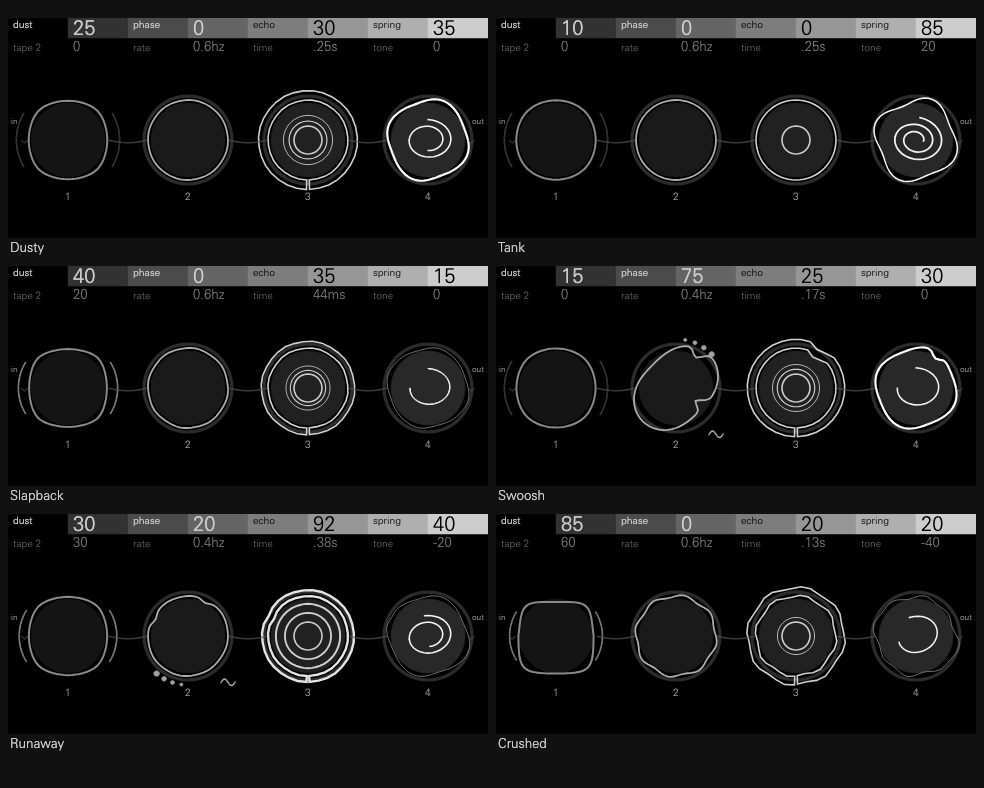
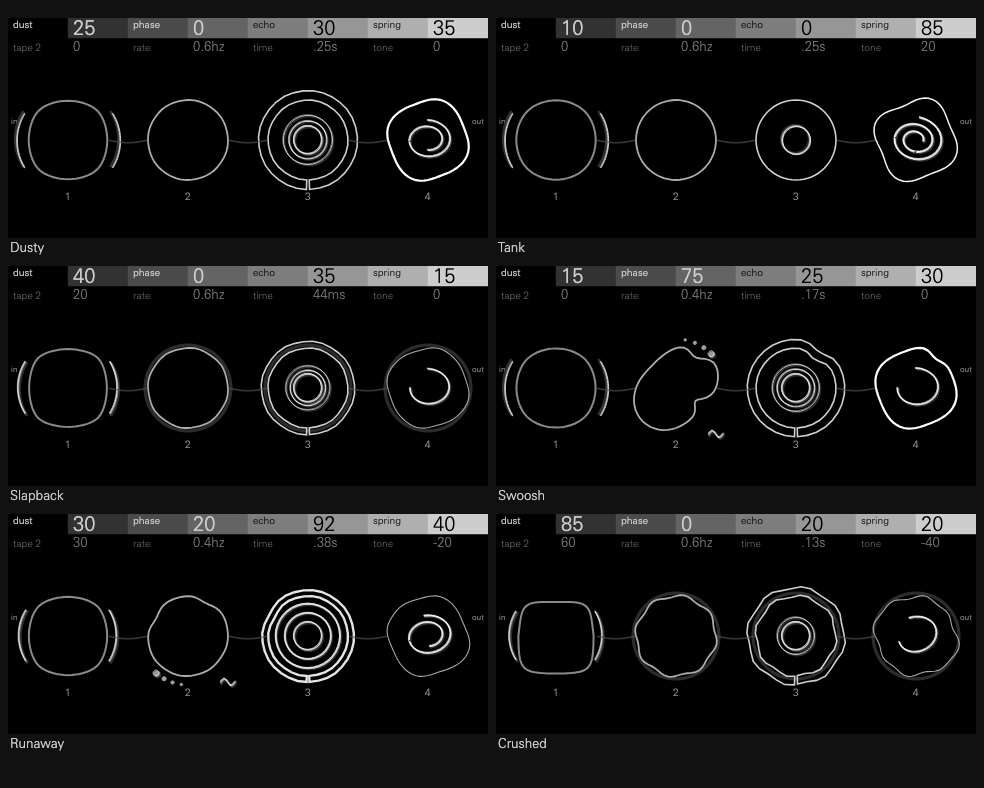
Lint prototype: no grounds behind the scopes; the parts inside are embossed
The static discs are gone: the rims are the picture. The echo's ripples, the
spring's spiral, the lamp's mark, the LFO shapes and tape 2's arcs each get a
shadow below right and a highlight above left (light from the top left), sunk
instead while quiet. Notches and dents are wider and smoother; the halo hugs
the rim and shows only once the grain is rough; LFO 2's inner motion steps at
15 Hz. The legs to IN and OUT are gone.
A design exploration: not for release.

diff --git a/lint/display.cpp b/lint/display.cpp
@@ -62,7 +62,7 @@ i32 bump(i32 a, i32 at, i32 depth) {
     while (d > 1800) d -= 3600;
     while (d < -1800) d += 3600;
     if (d < 0) d = -d;
-    const i32 i = d * 512 / 3600;   // eighths of a 64th of the turn
+    const i32 i = d * 256 / 3600;   // quarters of a point (a 64th of the turn): the table reaches 16 points each side
     return i >= 64 ? 0 : depth * kBump[i] >> 10;
 }
 
@@ -120,6 +120,21 @@ void rim(Frame::path_type& path, const Rim& r, const Live& l, i32 twin) {
     }
 }
 
+// An embossed element: its shadow (the node before it), its body, and its
+// highlight (the node after), sharing one pivot and turn. Light from the top
+// left: raised, the shadow falls down-right; sunk (quiet or off), up-left.
+void trio(Frame& frame, u32 body, i32 x, i32 y, i32 scale, u32 shade, Paint paint, Turn t, bool raised) {
+    const i32 o = raised ? 1024 : -1024, h = raised ? -717 : 717;
+    place(frame, body - 1, x + o, y + o, scale, 0, keep);
+    place(frame, body, x, y, scale, shade, paint);
+    place(frame, body + 1, x + h, y + h, scale, 0, keep);
+    for (u32 k = 0; k < 3; ++k) turn(frame, body - 1 + k, t);
+}
+void hide3(Frame& frame, u32 body) {
+    for (u32 k = 0; k < 3; ++k) hide(frame, body - 1 + k);
+}
+const Turn kStraight = {1024, 0};
+
 u32 checksum(const Frame::path_type& path) {
     u32 sum = 1;
     for (u32 k = 0; k < 64; ++k) sum = sum * 31 + static_cast<u32>(path.points[k].x) * 7 + static_cast<u32>(path.points[k].y);
@@ -139,11 +154,18 @@ void display(DisplayState& state, const Input& input, Frame& frame) {
     const bool fresh = !state.extra[7];
     state.extra[7] = 1;
     const bool lit = n.shift;
+    // LFO 2 as the inner parts follow it: sampled 15 times a second, so the
+    // embossed spiral and ripples redraw in steps, not every frame.
+    {
+        const i32 t15 = (state.clock * 15) >> 10;
+        if (fresh || t15 != state.extra[2]) { state.extra[2] = t15; state.extra[3] = n.lfo2; }
+    }
+    const i32 lfo2_s = state.extra[3];
 
     // Tape 2: two arcs either side of dust's rim close in with its level (at half in the loop with its control down).
     const i32 level = n.loop == kLoopTape && v[kTape2Level] <= 328 ? 16384 : v[kTape2Level];
     for (u32 k = 0; k < 2; ++k)
-        place(frame, kNodeClampL + k, px(kCX[0]), px(kCY), (1024 - share(170, level)) & ~7, level > 328 ? kShadeLit1 : kShadeGuide, stroke);
+        trio(frame, kNodeClampL + 3 * k, px(kCX[0]), px(kCY), (1024 - share(170, level)) & ~7, level > 328 ? kShadeLit1 : kShadeGuide, stroke, kStraight, level > 328);
 
     // Phase: the lamp, lagging the LFO's light, leans its rim and holds its notches.
     const i32 depth = n.patched == kP && v[kPhase] < 328 ? 16384 : v[kPhase];
@@ -156,47 +178,49 @@ void display(DisplayState& state, const Input& input, Frame& frame) {
     const i32 orbit = static_cast<i32>(ph >> 16) * 3600 >> 16;
     const i32 trail = 60 + share(240, v[kRate]);
     for (u32 k = 0; k < 4; ++k) {
-        if (!lamp) { hide(frame, kNodeOrbit0 + k); continue; }
+        if (!lamp) { if (k == 0) hide3(frame, kNodeOrbit0); else hide(frame, kNodeOrbit1 + k - 1); continue; }
         const i32 a = orbit - static_cast<i32>(k) * trail - 900;
-        place(frame, kNodeOrbit0 + k, px(kCX[1]) + (kR0 + 9) * cos10(a), px(kCY) + (kR0 + 9) * sin10(a), unit, kShadeLit2, fill_and_stroke);
+        const i32 x = px(kCX[1]) + (kR0 + 9) * cos10(a), y = px(kCY) + (kR0 + 9) * sin10(a);
+        if (k == 0) trio(frame, kNodeOrbit0, x, y, unit, 0, keep, kStraight, true);
+        else place(frame, kNodeOrbit1 + k - 1, x, y, unit, kShadeLit2, fill_and_stroke);
     }
     for (u32 k = 0; k < 3; ++k) {
-        if ((lamp || lit) && k == n.shape) place(frame, kNodeLfoSine + k, px(kCX[1] + kR + 6), px(kCY + kR + 12), unit, 0, keep);
-        else hide(frame, kNodeLfoSine + k);
+        if ((lamp || lit) && k == n.shape) trio(frame, kNodeLfoSine + 3 * k, px(kCX[1] + kR + 6), px(kCY + kR + 12), unit, 0, keep, kStraight, lamp);
+        else hide3(frame, kNodeLfoSine + 3 * k);
     }
 
     // Echo: ripples inside its scope, spaced by time, as many as the feedback holds.
-    place(frame, kNodeEchoDry, px(kCX[2]), px(kCY), unit, 0, keep);
     const i32 e = v[kEcho];
+    trio(frame, kNodeEchoDry, px(kCX[2]), px(kCY), unit, 0, keep, kStraight, e > 328);
     const i32 fb = e < 27853 ? e * 903 >> 10 : 24576 + ((e - 27853) * 2731 >> 10);
-    const i32 wob = n.wobble == kWobbleTime ? share(px(2), n.lfo2) : 0;
+    const i32 wob = n.wobble == kWobbleTime ? share(px(2), lfo2_s) & ~(unit / 2 - 1) : 0;   // half-pixel steps
     const i32 gap = px(3) + share(px(6), v[kTime]) + wob;
     i32 h = e < 27853 ? e * 32767 / 27853 : 32767;
     const i32 spread = 560 + (h * 464 >> 15) + (e > 27853 ? (e - 27853) * 300 / 4915 : 0);
     for (u32 k = 0; k < 8; ++k) {
         const i32 r = px(14) + (gap * static_cast<i32>(k + 1) >> 10) * spread;
-        if (e <= 328 || h < 1500 || r > px(e > 27853 ? 37 : 34)) { hide(frame, kNodeRipple0 + k); continue; }
+        if (e <= 328 || h < 1500 || r > px(e > 27853 ? 37 : 34)) { hide3(frame, kNodeRipple0 + 3 * k); continue; }
         const i32 scale = (r >> 4) * kRippleInv[k] >> 16;
-        place(frame, kNodeRipple0 + k, px(kCX[2]), px(kCY), scale, h > 16384 ? kShadeT3 : h > 8000 ? kShadeT3Mid : kShadeT3Thin, stroke);
+        trio(frame, kNodeRipple0 + 3 * k, px(kCX[2]), px(kCY), scale, h > 16384 ? kShadeT3 : h > 8000 ? kShadeT3Mid : kShadeT3Thin, stroke, kStraight, true);
         h = clamp(h * fb >> 15, 0, 32767);
     }
 
     // Spring: its spiral winds further in, more of it showing, the harder the
     // tank is driven; tone turns it; LFO 2 on the tank breathes it.
     const i32 drive = n.patched == kS && v[kSpringAmount] < 328 ? 16384 : v[kSpringAmount];
-    const i32 trem = n.wobble == kWobbleSpring ? 900 + (n.lfo2 * 124 >> 15) : 1024;
+    const i32 trem = n.wobble == kWobbleSpring ? 900 + (lfo2_s * 124 >> 15) : 1024;
     const i32 turn_by = share(1000, v[kTone] - 16384);
     for (u32 k = 0; k < 3; ++k) {
-        if (drive <= 328 || drive < static_cast<i32>(k) * 10923) { hide(frame, kNodeSpiral0 + k); continue; }
-        place(frame, kNodeSpiral0 + k, px(kCX[3]), px(kCY), ((820 + share(204, drive)) * trem >> 10) & ~7, 0, keep);
-        turn(frame, kNodeSpiral0 + k, Turn{cos10(turn_by), sin10(turn_by)});
+        if (drive <= 328 || drive < static_cast<i32>(k) * 10923) { hide3(frame, kNodeSpiral0 + 3 * k); continue; }
+        trio(frame, kNodeSpiral0 + 3 * k, px(kCX[3]), px(kCY), ((820 + share(204, drive)) * trem >> 10) & ~31, 0, keep,
+             Turn{cos10(turn_by), sin10(turn_by)}, true);
     }
 
     // LFO 2's mark over what it wobbles.
     const i32 wob_col = n.wobble == kWobbleTime ? 2 : n.wobble == kWobbleSpring ? 3 : n.wobble == kWobblePhaser ? 1 : -1;
     for (u32 k = 0; k < 3; ++k) {
-        if (wob_col >= 0 && k == n.shape) place(frame, kNodeMarkSine + k, px(kCX[wob_col] + kR0 - 2), px(kCY - kR0 - 8), unit, 0, keep);
-        else hide(frame, kNodeMarkSine + k);
+        if (wob_col >= 0 && k == n.shape) trio(frame, kNodeMarkSine + 3 * k, px(kCX[wob_col] + kR0 - 2), px(kCY - kR0 - 8), unit, 0, keep, kStraight, true);
+        else hide3(frame, kNodeMarkSine + 3 * k);
     }
 
     // The rims: each its own section's shape, with the qualities of what came before it.
@@ -297,7 +321,7 @@ void display(DisplayState& state, const Input& input, Frame& frame) {
             rim(path, r, l, twin);
             path.key = checksum(path);
             // A soft halo where roughness has been carried.
-            if (r.fuzz) place(frame, kNodeHalo0 + s, px(kCX[s]), px(kCY), unit, 0, keep);
+            if (r.fuzz > 11000) place(frame, kNodeHalo0 + s, px(kCX[s]), px(kCY), unit, 0, keep);   // only once it's rough
             else hide(frame, kNodeHalo0 + s);
         }
     }
@@ -314,8 +338,7 @@ void display(DisplayState& state, const Input& input, Frame& frame) {
     }
     for (i32 k = 0; k + 1 < count; ++k)
         if (cols[k + 1] == cols[k] + 1) on[cols[k]] = true;
-    on[3] = cols[0] == 0;
-    on[4] = cols[count - 1] == 3;
+    // No legs to IN and OUT: the labels are enough, and the legs crowded tape 2's arcs.
     if (n.loop != kLoopOff) on[5 + (n.loop == kLoopTape ? 0 : n.loop == kLoopPhaser ? 1 : 2)] = true;
     for (i32 piece = 0; piece < 8; ++piece)
         for (i32 part = 0; part < kPieceParts; ++part) {

diff --git a/lint/tools/make_panel.py b/lint/tools/make_panel.py
@@ -14,7 +14,7 @@ against itself: a ring when a section does nothing to it.
 - echo rings it with ripples, spaced by time, as many as the feedback holds;
 - spring winds it into a spiral, more turns as it's driven, leaning with tone.
 
-Each scope sits on a disc in its encoder's dark step, and its rim is one
+Each scope is its rim alone: one
 continuous outline in the encoder's grey, the darker greys drawn heavier so the
 four read alike: the rim is the readout. A rim takes its own section's shape
 (dust squares it, flatter on top once lopsided, with tape 2's two arcs closing
@@ -25,7 +25,9 @@ harder it is driven) and the qualities the sections before it in the order
 pass on, as smooth distortion: dust's roughness as a fine waviness and a soft
 halo, phase's movement as a dent riding the rim, echo's doubling as a heavier,
 brighter rim, spring's shimmer as a fine ripple, and unsteadiness from tape 2
-(whose last rim also thins and dims) and LFO 2. Every part is a curve.
+(whose last rim also thins and dims) and LFO 2. Every part is a curve, and
+the parts inside the rims are embossed: a shadow below right and a highlight
+above left, light from the top left everywhere, sunk instead when quiet.
 
 Under each scope its place in the order; a bar joins neighbours the order
 runs straight through, and the echo's loop reaches the section patched into it.
@@ -45,24 +47,34 @@ CX = [60, 180, 300, 420]
 p = Panel()
 
 
+# Embossing: each inner element is three nodes sharing one pivot, drawn in
+# order: a shadow below and to the right, the body, and a thin highlight above
+# and to the left. The light comes from the top left everywhere; swapping the
+# two offsets sinks an element (quiet, off) instead of raising it.
+SHADOW, LIGHT = "#2e2e2e", "#ffffff"
+
+
+def trio(name, pts, at, body, width, fill="none", shadow=SHADOW, light=LIGHT):
+    p.node(f"{name}_lo", pts, at, shadow, width + 0.8, fill=shadow if fill != "none" else "none")
+    p.node(name, pts, at, body, width, fill=fill)
+    p.node(f"{name}_hi", pts, at, light, max(0.5, width * 0.45), fill="none")
+
+
 def ring(r, n=64):
     return circle(r, n, start=-math.pi / 2)
 
 
 p.static_text(3, CY - 16, 8, LABEL, "in")
 p.static_text(464, CY - 16, 8, LABEL, "out")
-# Each scope's face: a static disc in its encoder's dark step, and its rim, one
+# Each scope is its rim alone, one
 # reshaping outline (paths 0..3) in the encoder's grey: the rim is the readout.
 # Two faint rings round it give it blur (a halo) and the echo's doubling.
-DISC = ["#141414", "#1a1a1a", "#212121", "#282828"]
 R0 = 40
-for k, cx in enumerate(CX):
-    p.static(circle(R0 - 3, 64, cx, CY), DISC[k], 0.5, fill=DISC[k])
 # The rims' greys keep the encoders' order, dark to white; the darker ones are
 # drawn heavier, so all four read as equally present.
 RIMS = [("#8a8a8a", 2.0), ("#acacac", 1.8), ("#d0d0d0", 1.6), ("#f4f4f4", 1.5)]
 for s_ in range(4):
-    p.node(f"halo_{s_}", circle(R0 + 4, 48), (640, 320), "#2c2c2c", 3.2)
+    p.node(f"halo_{s_}", circle(R0 + 3, 48), (640, 320), "#2c2c2c", 3.2)
 for s_ in range(4):
     p.mutable(s_, f"rim_{s_}", circle(R0, 64), (CX[s_], CY), RIMS[s_][0], RIMS[s_][1])
 # Spring's spiral: three pieces of one spiral winding inward, three quarters of
@@ -77,17 +89,20 @@ def spiral_piece(i):
         pts.append((r * math.cos(a), r * 0.82 * math.sin(a)))
     return normal_ribbon(pts, 0.6)
 for i in range(3):
-    p.node(f"spiral_{i}", spiral_piece(i), (640, 320), "#f4f4f4", 1.2)
+    trio(f"spiral_{i}", spiral_piece(i), (640, 320), "#d8d8d8", 1.3)
 # Echo: the dry ring and eight ripples, authored near their drawn sizes.
-p.node("echo_dry", ring(14, 40), (CX[2], CY), T3, 1.6)
+trio("echo_dry", ring(14, 28), (CX[2], CY), "#bdbdbd", 1.6)
 for k in range(8):
-    p.node(f"ripple_{k}", ring(14 + 6 * (k + 1), 48), (640, 320), T3, 1.0)
+    trio(f"ripple_{k}", ring(14 + 6 * (k + 1), 36), (640, 320), "#bdbdbd", 1.0)
 # Tape 2: two arcs, like a clamp's jaws, either side of dust's rim, closing in with its level.
 for name, mid in (("clamp_l", math.pi), ("clamp_r", 0.0)):
-    p.node(name, arc_ribbon(52, mid - 0.55, mid + 0.55, 18, 0.7), (640, 320), "#8a8a8a", 1.6)
+    trio(name, arc_ribbon(52, mid - 0.55, mid + 0.55, 18, 0.7), (640, 320), "#8a8a8a", 1.6)
 # LFO 1: a mark orbiting the phase scope, with a trail spaced by its rate.
 for k in range(4):
-    p.node(f"orbit_{k}", circle(2.8 - 0.4 * k, 12), (640, 320), T2, 0.6, fill=T2)
+    if k == 0:
+        trio("orbit_0", circle(3.0, 14), (640, 320), "#9a9a9a", 0.6, fill="#9a9a9a")   # the lamp's mark, raised
+    else:
+        p.node(f"orbit_{k}", circle(2.6 - 0.4 * k, 12), (640, 320), T2, 0.6, fill=T2)
 # The thread: every piece runs from a scope's right side (or IN) to another's
 # left side (or OUT): straight between neighbours, else a rounded lane over the
 # scopes (forward) or under them (back, and the legs that skip scopes).
@@ -194,9 +209,9 @@ def glyph(nm):
          "square": lambda x: math.tanh(3 * math.sin(x)) / math.tanh(3)}[nm]
     return ribbon([(-mark + 2 * mark * j / 23, -3.2 * f(2 * math.pi * j / 23)) for j in range(24)], 0.6)
 for nm in ("sine", "triangle", "square"):
-    p.node(f"mark_{nm}", glyph(nm), (640, 320), T4, 1.1)
+    trio(f"mark_{nm}", glyph(nm), (640, 320), "#e0e0e0", 1.2)
 for nm in ("sine", "triangle", "square"):
-    p.node(f"lfo_{nm}", glyph(nm), (640, 320), T2, 1.1)
+    trio(f"lfo_{nm}", glyph(nm), (640, 320), "#a8a8a8", 1.2)
 p.const("const opxy::i32 kRippleInv[8] = {" + ", ".join(str(round(2 ** 20 / (14 + 6 * (k + 1)))) for k in range(8)) + "};")
 for t, (c, w) in zip(("t1", "t2", "t3", "t4"), RIMS):
     p.shade(t, c, w)
@@ -207,13 +222,13 @@ p.shade("t3thin", T3, 0.95)
 p.shade("lit3", T3, 1.2)
 p.shade("lit2", T2, 0.6)
 # The rims: whole, worn thin; the echo's copies, fading, and heavy past Madness.
-p.shade("worn", "#7a7a7a", 0.9)      # tape 2's wear: the last rim thinner and dimmer
+p.shade("worn", "#a8a8a8", 1.1)      # tape 2's wear: the last rim thinner and a step dimmer
 # A rim after an echo is drawn doubled: heavier and a step brighter (the echo's own scope has none before it).
 p.shade("t1_doubled", "#9c9c9c", 2.7)
 p.shade("t2_doubled", "#bebebe", 2.5)
 p.shade("mad", "#e4e4e4", 2.4)      # the echo past Madness: its doubled rim heavier
 p.shade("t4_doubled", "#ffffff", 2.2)
-p.shade("halo", "#2c2c2c", 3.2)      # dust's blur: a soft, wide, dim ring
+p.shade("halo", "#2a2a2a", 3.4)      # dust's blur: a soft, wide, dim ring hugging the rim
 p.const(f"const opxy::i32 kCY = {CY}, kR = {R};")
 p.const("const opxy::i32 kCX[4] = {" + ", ".join(map(str, CX)) + "};")
 idx = {n[0]: 4 + k for k, n in enumerate(p.nodes)}
@@ -232,7 +247,7 @@ p.const("const opxy::i32 kEchoRecip[33] = {" + ", ".join(str(round(2 ** 20 / min
 p.const("// A squircle's radius over a circle's at each of the rim's 64 points, Q10: the rim squaring as dust crushes it.")
 sq = lambda a: 0.93 / (abs(math.cos(a)) ** 5 + abs(math.sin(a)) ** 5) ** 0.2
 p.const("const opxy::i32 kSquared[64] = {" + ", ".join(str(round(1024 * sq(2 * math.pi * k / 64))) for k in range(64)) + "};")
-p.const("// A smooth dent's depth at 0..8 points (in 8ths) from its middle, Q10.")
-p.const("const opxy::i32 kBump[65] = {" + ", ".join(str(round(1024 * math.exp(-(k / 8 / 1.6) ** 2))) for k in range(65)) + "};")
+p.const("// A smooth dent's depth at 0..16 points (in quarters) from its middle, Q10.")
+p.const("const opxy::i32 kBump[65] = {" + ", ".join(str(round(1024 * math.exp(-(k / 4 / 2.8) ** 2))) for k in range(65)) + "};")
 
 print(p.write(ROOT))

diff --git a/lint/panel.h b/lint/panel.h
@@ -3,8 +3,8 @@
 #include <opxy/types.hpp>
 
 namespace lint { namespace panel {
-const opxy::u32 kNodes = 52, kTexts = 20, kPalette = 16, kNodeBars = 44;
-enum Node { kNodeRim0 = 0, kNodeRim1 = 1, kNodeRim2 = 2, kNodeRim3 = 3, kNodeHalo0 = 4, kNodeHalo1 = 5, kNodeHalo2 = 6, kNodeHalo3 = 7, kNodeSpiral0 = 8, kNodeSpiral1 = 9, kNodeSpiral2 = 10, kNodeEchoDry = 11, kNodeRipple0 = 12, kNodeRipple1 = 13, kNodeRipple2 = 14, kNodeRipple3 = 15, kNodeRipple4 = 16, kNodeRipple5 = 17, kNodeRipple6 = 18, kNodeRipple7 = 19, kNodeClampL = 20, kNodeClampR = 21, kNodeOrbit0 = 22, kNodeOrbit1 = 23, kNodeOrbit2 = 24, kNodeOrbit3 = 25, kNodeJoin00 = 26, kNodeJoin10 = 27, kNodeJoin20 = 28, kNodeIn00 = 29, kNodeOut30 = 30, kNodeLoop00 = 31, kNodeLoop01 = 32, kNodeLoop02 = 33, kNodeLoop10 = 34, kNodeLoop11 = 35, kNodeLoop30 = 36, kNodeLoop31 = 37, kNodeMarkSine = 38, kNodeMarkTriangle = 39, kNodeMarkSquare = 40, kNodeLfoSine = 41, kNodeLfoTriangle = 42, kNodeLfoSquare = 43 };
+const opxy::u32 kNodes = 94, kTexts = 20, kPalette = 16, kNodeBars = 86;
+enum Node { kNodeRim0 = 0, kNodeRim1 = 1, kNodeRim2 = 2, kNodeRim3 = 3, kNodeHalo0 = 4, kNodeHalo1 = 5, kNodeHalo2 = 6, kNodeHalo3 = 7, kNodeSpiral0Lo = 8, kNodeSpiral0 = 9, kNodeSpiral0Hi = 10, kNodeSpiral1Lo = 11, kNodeSpiral1 = 12, kNodeSpiral1Hi = 13, kNodeSpiral2Lo = 14, kNodeSpiral2 = 15, kNodeSpiral2Hi = 16, kNodeEchoDryLo = 17, kNodeEchoDry = 18, kNodeEchoDryHi = 19, kNodeRipple0Lo = 20, kNodeRipple0 = 21, kNodeRipple0Hi = 22, kNodeRipple1Lo = 23, kNodeRipple1 = 24, kNodeRipple1Hi = 25, kNodeRipple2Lo = 26, kNodeRipple2 = 27, kNodeRipple2Hi = 28, kNodeRipple3Lo = 29, kNodeRipple3 = 30, kNodeRipple3Hi = 31, kNodeRipple4Lo = 32, kNodeRipple4 = 33, kNodeRipple4Hi = 34, kNodeRipple5Lo = 35, kNodeRipple5 = 36, kNodeRipple5Hi = 37, kNodeRipple6Lo = 38, kNodeRipple6 = 39, kNodeRipple6Hi = 40, kNodeRipple7Lo = 41, kNodeRipple7 = 42, kNodeRipple7Hi = 43, kNodeClampLLo = 44, kNodeClampL = 45, kNodeClampLHi = 46, kNodeClampRLo = 47, kNodeClampR = 48, kNodeClampRHi = 49, kNodeOrbit0Lo = 50, kNodeOrbit0 = 51, kNodeOrbit0Hi = 52, kNodeOrbit1 = 53, kNodeOrbit2 = 54, kNodeOrbit3 = 55, kNodeJoin00 = 56, kNodeJoin10 = 57, kNodeJoin20 = 58, kNodeIn00 = 59, kNodeOut30 = 60, kNodeLoop00 = 61, kNodeLoop01 = 62, kNodeLoop02 = 63, kNodeLoop10 = 64, kNodeLoop11 = 65, kNodeLoop30 = 66, kNodeLoop31 = 67, kNodeMarkSineLo = 68, kNodeMarkSine = 69, kNodeMarkSineHi = 70, kNodeMarkTriangleLo = 71, kNodeMarkTriangle = 72, kNodeMarkTriangleHi = 73, kNodeMarkSquareLo = 74, kNodeMarkSquare = 75, kNodeMarkSquareHi = 76, kNodeLfoSineLo = 77, kNodeLfoSine = 78, kNodeLfoSineHi = 79, kNodeLfoTriangleLo = 80, kNodeLfoTriangle = 81, kNodeLfoTriangleHi = 82, kNodeLfoSquareLo = 83, kNodeLfoSquare = 84, kNodeLfoSquareHi = 85 };
 enum Text { kTextPlace0 = 16, kTextPlace1 = 17, kTextPlace2 = 18, kTextPlace3 = 19 };
 enum Shade { kShadeT1 = 0, kShadeT2 = 1, kShadeT3 = 2, kShadeT4 = 3, kShadeGuide = 4, kShadeLit1 = 5, kShadeT3Mid = 6, kShadeT3Thin = 7, kShadeLit3 = 8, kShadeLit2 = 9, kShadeWorn = 10, kShadeT1Doubled = 11, kShadeT2Doubled = 12, kShadeMad = 13, kShadeT4Doubled = 14, kShadeHalo = 15 };
 const opxy::i32 kRippleInv[8] = {52429, 40330, 32768, 27594, 23831, 20972, 18725, 16913};
@@ -12,12 +12,12 @@ const opxy::i32 kCY = 122, kR = 34;
 const opxy::i32 kCX[4] = {60, 180, 300, 420};
 // Thread pieces: joins 0..2, IN leg, OUT leg, the echo loop to tape (dust's scope), phase and spring. Each: nodes {index, x, y}.
 const opxy::i32 kPieceParts = 3;
-const opxy::i32 kPieces[8][3][3] = {{{26, 120, 123}, {-1, 0, 0}, {-1, 0, 0}}, {{27, 240, 123}, {-1, 0, 0}, {-1, 0, 0}}, {{28, 360, 123}, {-1, 0, 0}, {-1, 0, 0}}, {{29, 16, 123}, {-1, 0, 0}, {-1, 0, 0}}, {{30, 464, 123}, {-1, 0, 0}, {-1, 0, 0}}, {{31, 245, 168}, {32, 135, 170}, {33, 70, 164}}, {{34, 245, 168}, {35, 185, 164}, {-1, 0, 0}}, {{36, 355, 168}, {37, 415, 164}, {-1, 0, 0}}};
+const opxy::i32 kPieces[8][3][3] = {{{56, 120, 123}, {-1, 0, 0}, {-1, 0, 0}}, {{57, 240, 123}, {-1, 0, 0}, {-1, 0, 0}}, {{58, 360, 123}, {-1, 0, 0}, {-1, 0, 0}}, {{59, 16, 123}, {-1, 0, 0}, {-1, 0, 0}}, {{60, 464, 123}, {-1, 0, 0}, {-1, 0, 0}}, {{61, 245, 168}, {62, 135, 170}, {63, 70, 164}}, {{64, 245, 168}, {65, 185, 164}, {-1, 0, 0}}, {{66, 355, 168}, {67, 415, 164}, {-1, 0, 0}}};
 const opxy::i32 kR0 = 40;
 // 2^20 over the echo's time in ms (clamped 40..160) across the time control: the copy steps out over one echo time.
 const opxy::i32 kEchoRecip[33] = {26214, 26214, 26214, 26214, 26214, 26214, 26214, 26214, 26214, 26214, 26214, 26214, 26214, 26214, 26214, 26214, 23746, 20072, 16967, 14342, 12123, 10247, 8662, 7322, 6554, 6554, 6554, 6554, 6554, 6554, 6554, 6554, 6554};
 // A squircle's radius over a circle's at each of the rim's 64 points, Q10: the rim squaring as dust crushes it.
 const opxy::i32 kSquared[64] = {952, 957, 971, 995, 1028, 1071, 1117, 1156, 1172, 1156, 1117, 1071, 1028, 995, 971, 957, 952, 957, 971, 995, 1028, 1071, 1117, 1156, 1172, 1156, 1117, 1071, 1028, 995, 971, 957, 952, 957, 971, 995, 1028, 1071, 1117, 1156, 1172, 1156, 1117, 1071, 1028, 995, 971, 957, 952, 957, 971, 995, 1028, 1071, 1117, 1156, 1172, 1156, 1117, 1071, 1028, 995, 971, 957};
-// A smooth dent's depth at 0..8 points (in 8ths) from its middle, Q10.
-const opxy::i32 kBump[65] = {1024, 1018, 999, 969, 929, 879, 822, 759, 693, 625, 556, 489, 425, 365, 310, 259, 215, 175, 142, 113, 89, 69, 53, 41, 30, 23, 17, 12, 9, 6, 4, 3, 2, 1, 1, 1, 0, 0, 0, 0, 0, 0, 0, 0, 0, 0, 0, 0, 0, 0, 0, 0, 0, 0, 0, 0, 0, 0, 0, 0, 0, 0, 0, 0, 0};
+// A smooth dent's depth at 0..16 points (in quarters) from its middle, Q10.
+const opxy::i32 kBump[65] = {1024, 1016, 992, 953, 901, 839, 769, 693, 615, 537, 461, 390, 325, 266, 215, 170, 133, 102, 77, 58, 42, 30, 22, 15, 10, 7, 5, 3, 2, 1, 1, 0, 0, 0, 0, 0, 0, 0, 0, 0, 0, 0, 0, 0, 0, 0, 0, 0, 0, 0, 0, 0, 0, 0, 0, 0, 0, 0, 0, 0, 0, 0, 0, 0, 0};
 }}

diff --git a/lint/display.h b/lint/display.h
@@ -4,7 +4,7 @@
 namespace lint {
 // Matches resources.display in definition.json: paths, points, nodes, texts,
 // palette. tools/make_panel.py names every node (panel.h).
-using Frame = opxy::draw::Frame<4, 64, 52, 20, 16>;
+using Frame = opxy::draw::Frame<4, 64, 94, 20, 16>;
 // Each scope's rim, as the order leaves it (display.cpp): its own section's
 // shape, and the qualities the sections before it pass on.
 struct Rim {

diff --git a/lint/tools/kit.py b/lint/tools/kit.py
@@ -19,7 +19,7 @@ LABEL = "#8c8c8c"
 
 
 def num(v):
-    s = f"{v:.3f}".rstrip("0").rstrip(".")
+    s = f"{v:.2f}".rstrip("0").rstrip(".")
     return "0" if s in ("-0", "") else s
 
 

diff --git a/lint/README.md b/lint/README.md
@@ -57,12 +57,15 @@ setting was measured.
 
 ![Lint's screen in its six presets](screens.png)
 
-Under the two pages, four scopes, one under each encoder, each on a disc in
-that encoder's dark step. Each scope's rim is one continuous outline in that
-encoder's grey (dark grey, mid grey, light grey and white, as the OP-XY's
+Under the two pages, four scopes, one under each encoder. Each scope is its
+rim: one continuous outline in that encoder's grey (dark grey, mid grey, light grey and white, as the OP-XY's
 encoders and the header's bar run, the darker greys drawn heavier so all four
 read alike), and it is the readout: its own section's shape, distorted further
-by what the sections before it in the order pass on. Every part is a curve.
+by what the sections before it in the order pass on. Every part is a curve,
+and the parts inside the rims (the echo's ripples, the spring's spiral, the
+lamp's mark, the LFO shapes, tape 2's arcs) are embossed: a shadow below right,
+a highlight above left, light from the top left everywhere, and sunk instead of
+raised while they're quiet.
 
 - **dust:** the rim squares as the diodes clip, its top flatter once they
   lopside. Tape 2's two arcs, either side, close in on it with its level.
